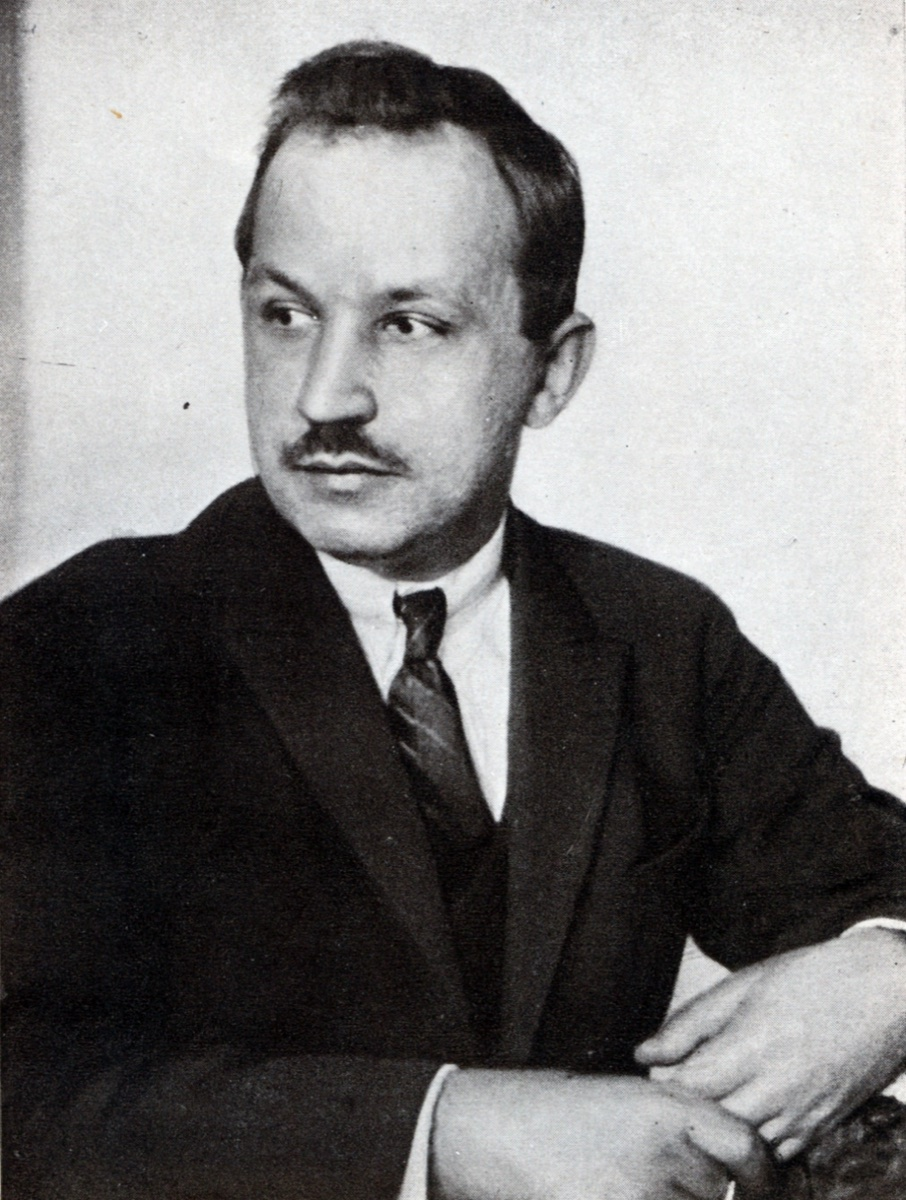
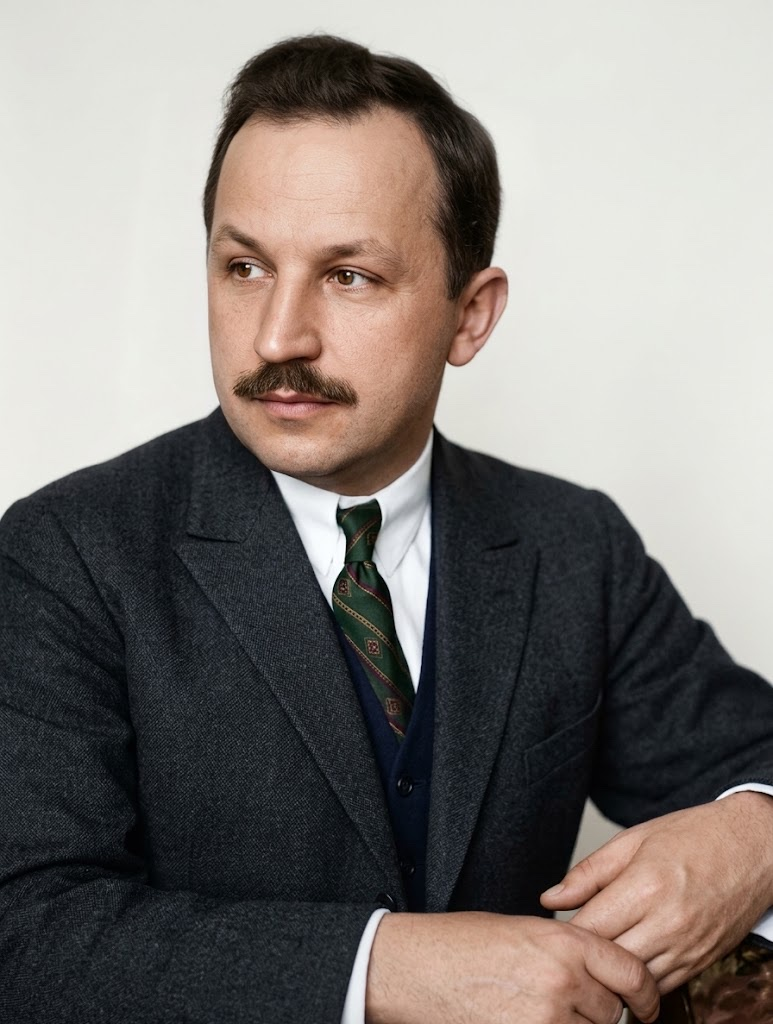
Approve Pavlo Fylypovych for publishing: AI-colorized portrait, quote from «Єднає нас одна туга» (uk + en)

diff --git a/src/content/people/uk/pavlo-fylypovych.md b/src/content/people/uk/pavlo-fylypovych.md
@@ -20,6 +20,7 @@ image:
   alt: "Павло Филипович, 1928 рік"
   author: "О. Кореневич"
   license: "Public domain"
+  ai_edit: colorized
   source_url: "https://commons.wikimedia.org/wiki/File:Pavlo_Fylypovych.jpg"
 key_accomplishments:
   - "Поетичні збірки «Земля і вітер» (1922) і «Простір» (1925)"
@@ -27,6 +28,9 @@ key_accomplishments:
   - "Огляд «Українське літературознавство за 10 років революції» (1928)"
   - "Переклади з французької: Бодлер, Верлен, Беранже"
   - "Обстоював позиції неокласиків у Літературній дискусії 1925–1928 років"
+quotes:
+  - text: "Єднає нас одна туга, / Одна любов, одна мета..."
+    source: "Вірш «Єднає нас одна туга»"
 sources:
   - title: "Енциклопедія історії України - Филипович Павло Петрович (автор - Г. П. Герасимова)"
     url: "https://www.history.org.ua/?termin=Fylypovych_P"
@@ -36,7 +40,8 @@ sources:
     url: https://uk.wikipedia.org/wiki/Павло_Филипович
 related: [mykola-zerov, mykhailo-drai-khmara, mykola-kulish, les-kurbas, maksym-rylskyi, yurii-klen]
 collections: [executed-renaissance, neoclassicists]
-status: draft
+status: approved
+published: 2026-10-10T21:44:00Z
 ---
 
 ## Павел Зорев стає Павлом Филиповичем

diff --git a/src/content/people/en/pavlo-fylypovych.md b/src/content/people/en/pavlo-fylypovych.md
@@ -12,6 +12,9 @@ key_accomplishments:
   - "Defended the Neoclassicists’ views in the Literary Discussion of 1925–1928"
 birthplace_name: "Kaitanivka"
 image_alt: "Pavlo Fylypovych, 1928"
+quotes:
+  - text: "One longing unites us, / One love, one aim..."
+    source: "The poem “One Longing Unites Us”"
 ---
 
 ## How Pavel Zorev became Pavlo Fylypovych
